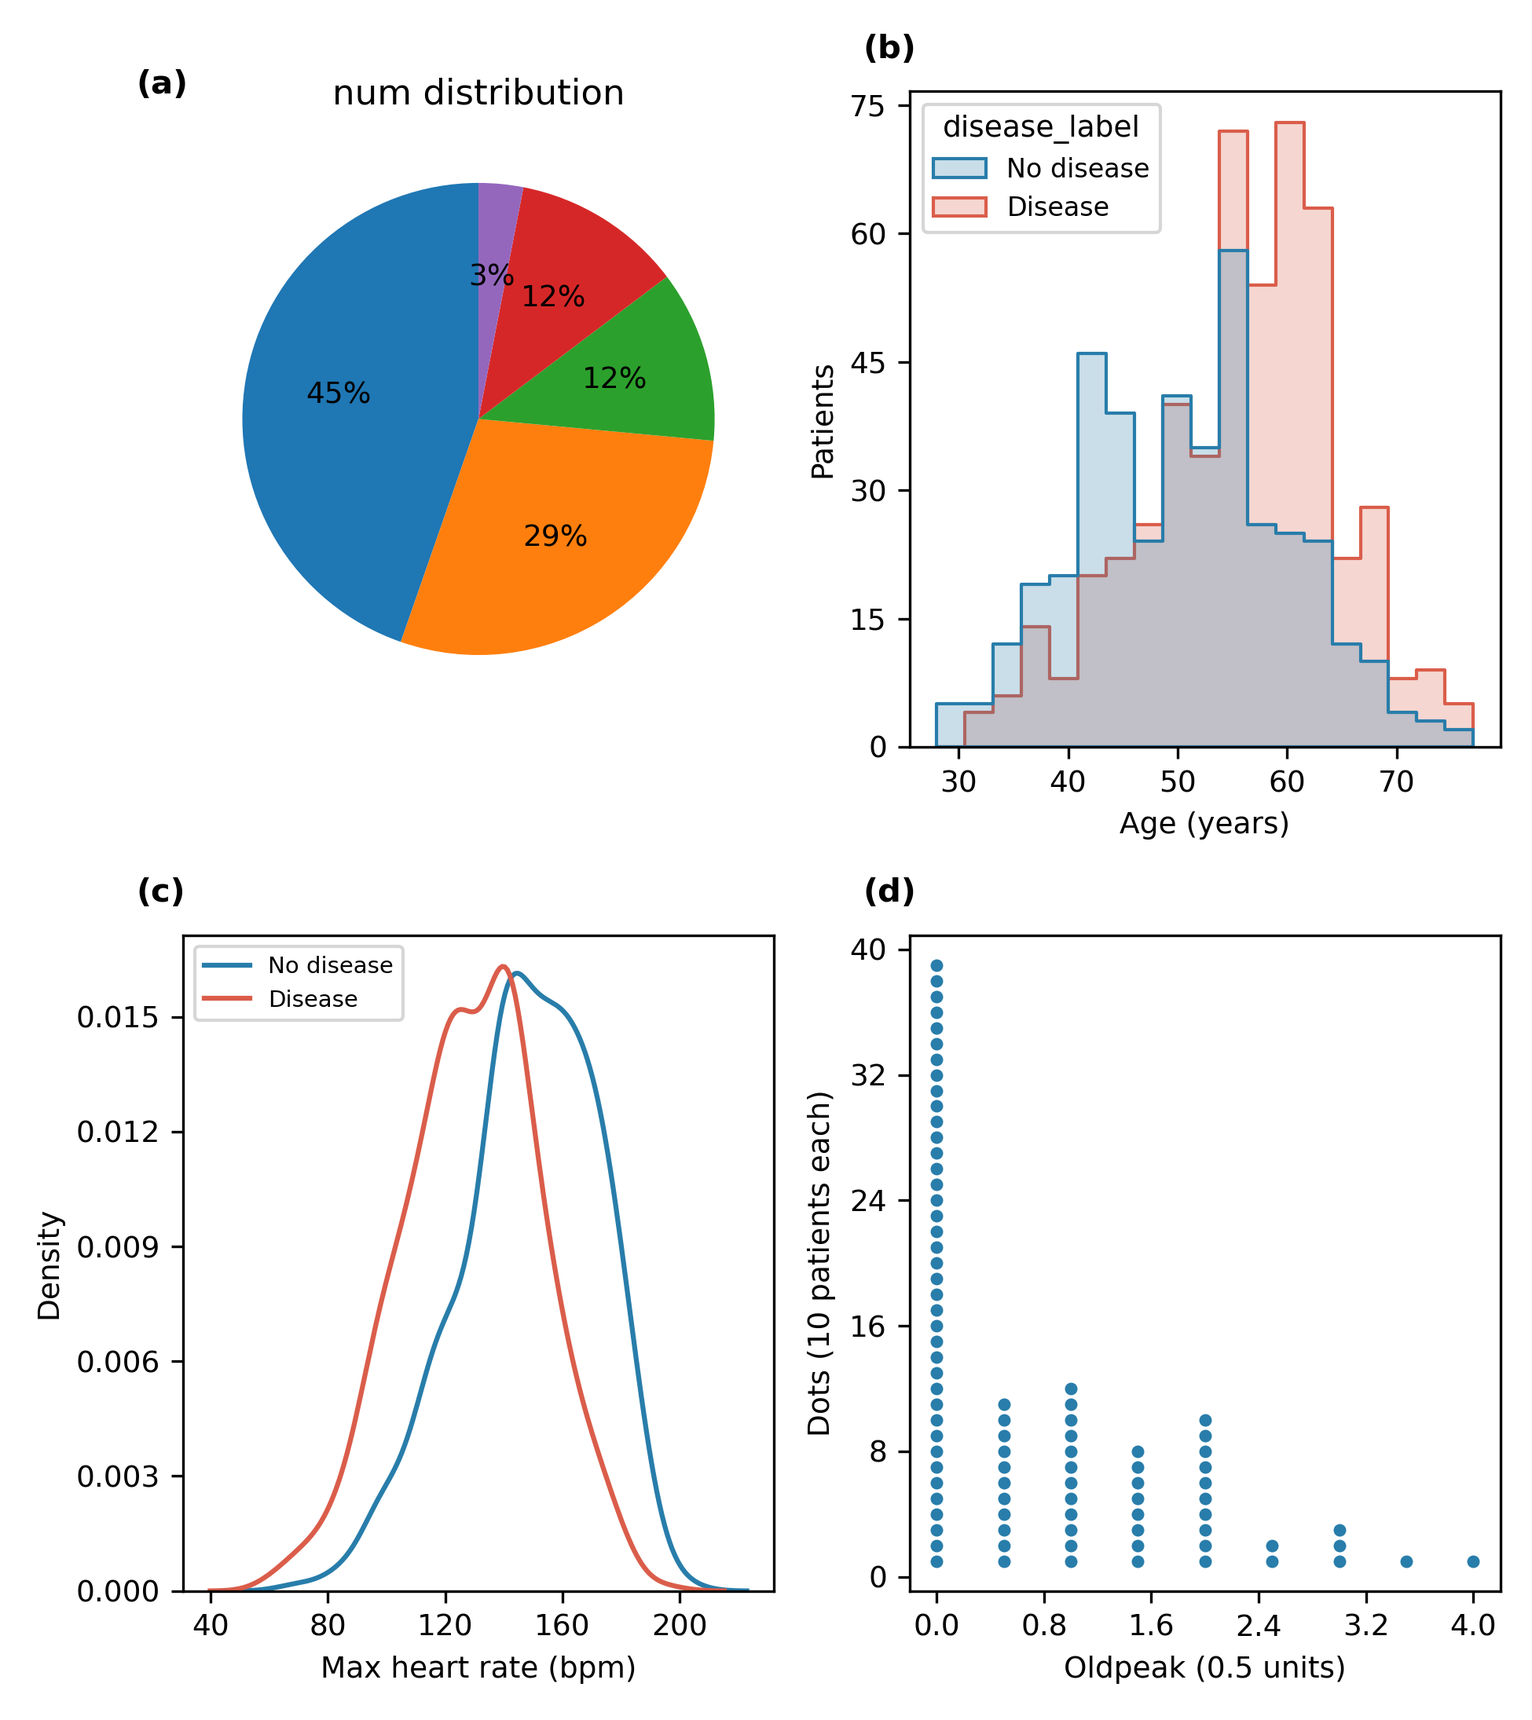
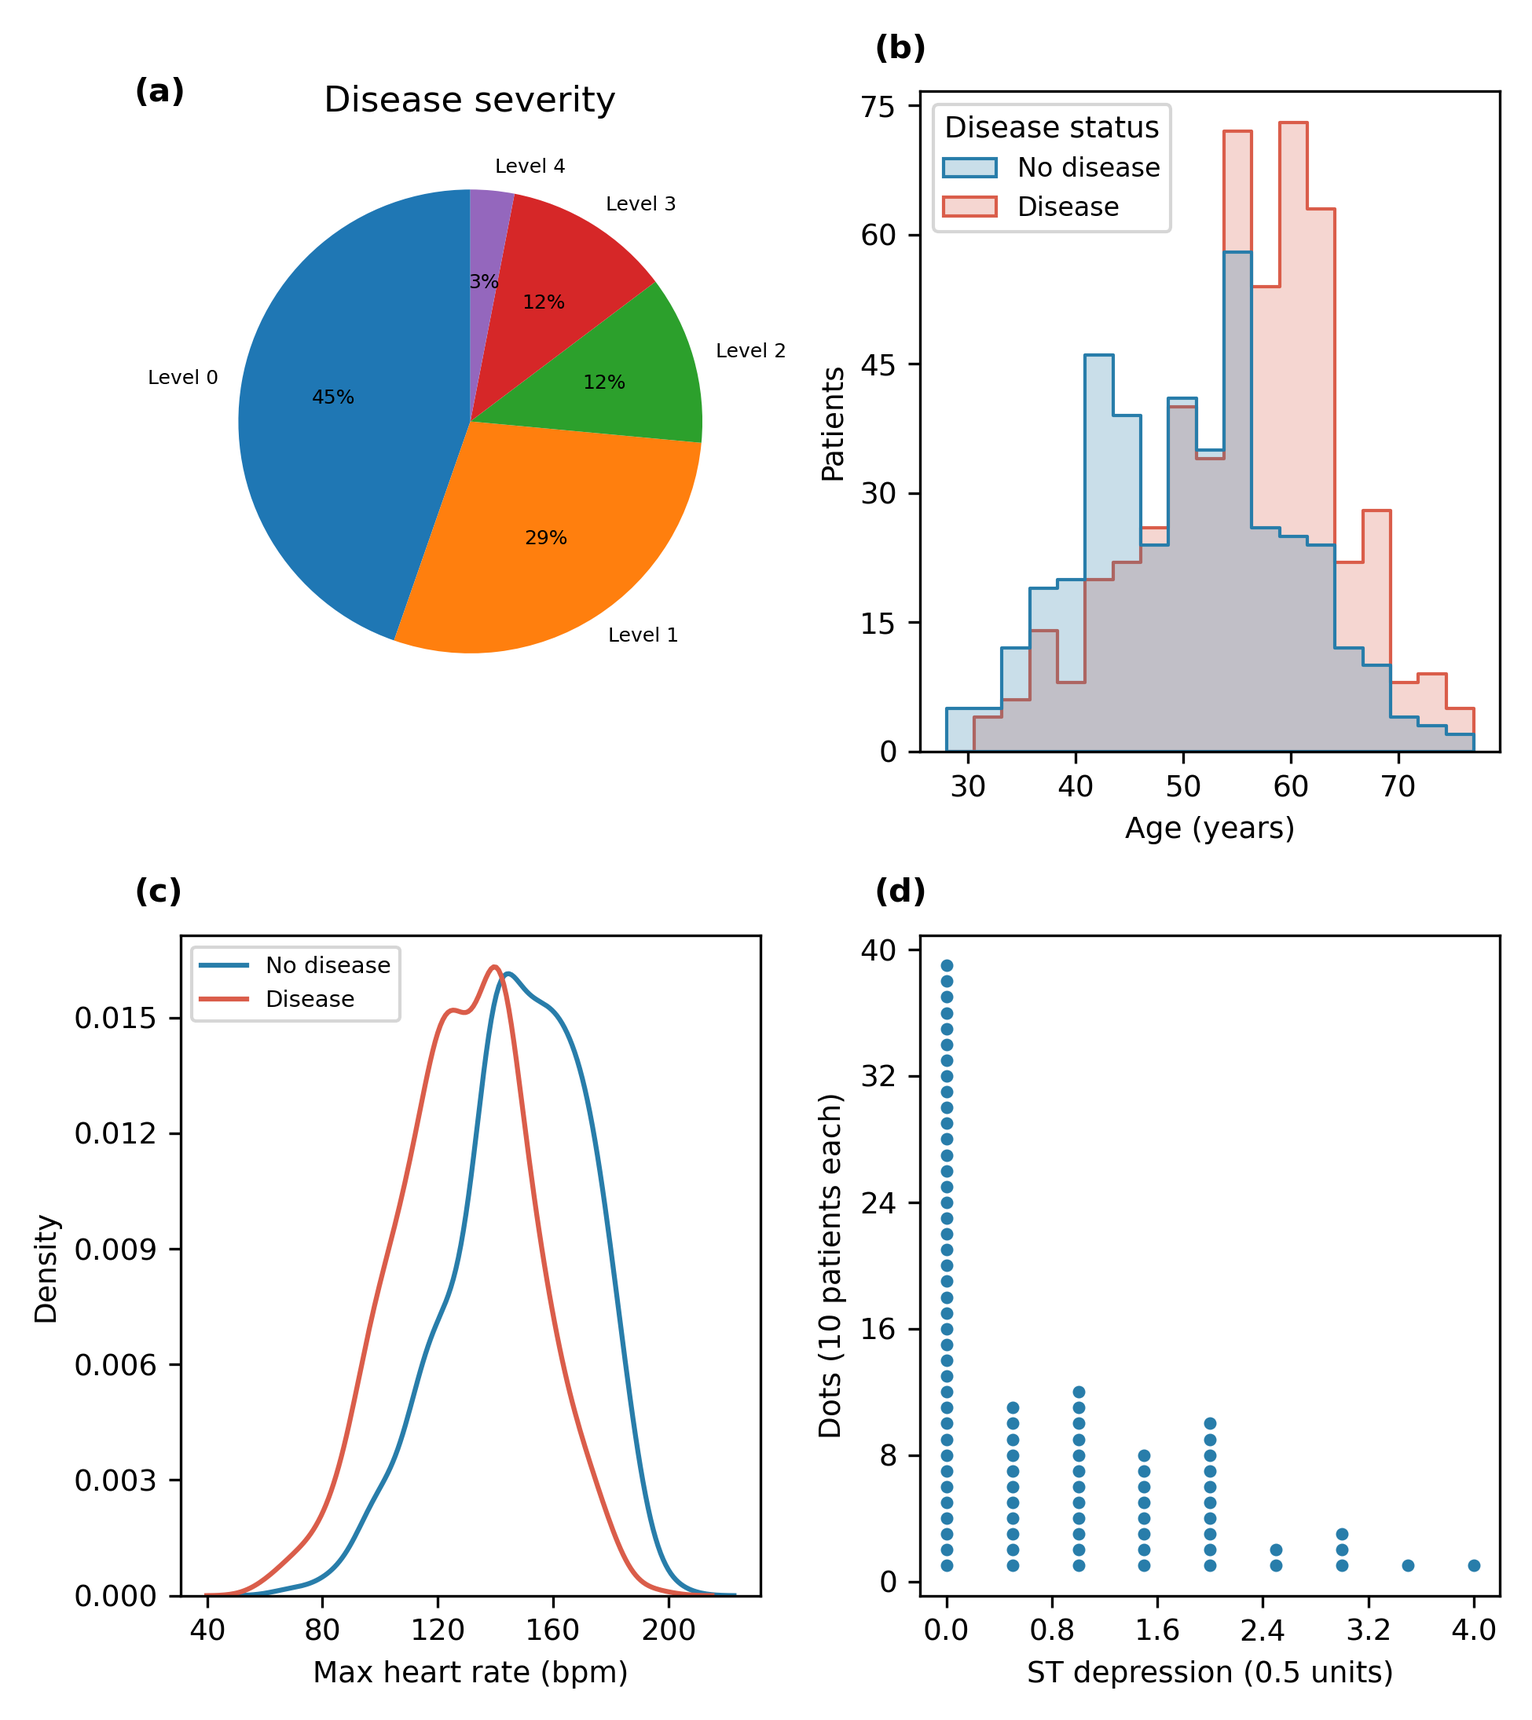
chore: updated surgical fixes for figures

diff --git a/src/03_plots.py b/src/03_plots.py
@@ -327,13 +327,12 @@ def kernel_density(values, points, bandwidth):
 
 def draw_violin(rows, stats):
     """Render KDE violins of thalach by cp; rows supply data and stats records group medians."""
-    image = chart("thalach violin by cp", "chest pain code", "maximum heart rate")
+    image = chart("thalach violin by cp", "", "maximum heart rate")
     box = (150, 170, 1320, 780)
     category_labels = ["1 typical", "2 atypical", "3 non-anginal", "4 asymptomatic"]
-    center_fraction = 140 / (box[2] - box[0])
-    span_fraction = (box[2] - box[0] - 280) / (box[2] - box[0])
-    axes(image, box, [(center_fraction + i * span_fraction / 3, category_labels[i]) for i in range(4)],
-         [(i / 5, 60 + i * 32) for i in range(6)])
+    panel_width = (box[2] - box[0]) / 4
+    x_ticks = [((i + 0.5) / 4, category_labels[i]) for i in range(4)]
+    axes(image, box, x_ticks, [(i / 5, 60 + i * 32) for i in range(6)])
     points = [float(v) for v in range(60, 221, 2)]
     group_medians = []
     for cp in range(1, 5):
@@ -341,13 +340,16 @@ def draw_violin(rows, stats):
         bandwidth = max(2.0, 1.06 * statistics.pstdev(vals) * len(vals) ** (-.2))
         density = kernel_density(vals, points, bandwidth)
         max_density = max(density)
-        center = int(scale(cp - 1, 0, 3, box[0] + 140, box[2] - 140))
+        center = int(box[0] + (cp - 1 + 0.5) * panel_width)
         for index, point in enumerate(points):
             half_width = max(1, int(65 * density[index] / max_density))
             yy = int(scale(point, 60, 220, box[3], box[1]))
             image.line(center - half_width, yy, center + half_width, yy, PALETTE[(cp - 1) % len(PALETTE)])
         group_medians.append(statistics.median(vals))
     stats.append(("p07", "thalach_median_by_cp_1_to_4", ", ".join(f"{value:g}" for value in group_medians)))
+    xlabel = "CHEST PAIN CODE"
+    box_center = (box[0] + box[2]) // 2
+    image.text(box_center - len(xlabel) * 6, image.height - 68, xlabel, color=INK, scale=2)
     save(image, "p07_thalach_violin_by_cp.png")
 
 
@@ -357,7 +359,7 @@ def draw_heatmap(rows, stats, observed_n):
     data = {column: [int(row[column]) if column == "num_bin" else float(row[column]) for row in rows]
             for column in columns}
     matrix = [[spearman(data[a], data[b]) for b in columns] for a in columns]
-    image = chart(f"Spearman heatmap - observed rows only, n={observed_n}", "numeric feature", "numeric feature", 2100, 1800)
+    image = chart(f"Spearman heatmap - observed rows only, n={observed_n}", "", "numeric feature", 2100, 1800)
     left, top, cell = 500, 350, 220
     for index, column in enumerate(columns):
         image.text(left + index * cell + 18, top - 45, column.upper(), color=INK, scale=2)
@@ -372,6 +374,8 @@ def draw_heatmap(rows, stats, observed_n):
             image.text(x0 + 25, y0 + 52, f"{rho:.2f}", color=INK, scale=2)
     pairs = [("age", "num_bin"), ("trestbps", "num_bin"), ("chol", "num_bin"), ("thalach", "num_bin"), ("oldpeak", "num_bin")]
     stats.append(("p08", "spearman_with_num_bin", ", ".join(f"{a}:{spearman(data[a], data[b]):.4f}" for a, b in pairs)))
+    xlabel = "NUMERIC FEATURE"
+    image.text(image.width // 2 - len(xlabel) * 6, image.height - 68, xlabel, color=INK, scale=2)
     save(image, "p08_spearman_heatmap.png")
 
 
@@ -508,7 +512,7 @@ def draw_parallel(rows, flags, stats):
     """Render 200 sampled min-max parallel profiles; rows are observed-chol cases, flags select completeness."""
     sample = random.Random(SEED).sample(rows, min(200, len(rows)))
     image = chart(f"parallel coordinates - observed rows only, n={len(rows)}; sample={len(sample)}",
-                  "numeric feature", "min-max scaled value", 1700, 1000)
+                  "", "min-max scaled value", 1700, 1000)
     box = (150, 190, 1510, 780)
     axes(image, box, [(i / (len(NUMERIC) - 1), NUMERIC[i]) for i in range(len(NUMERIC))],
          [(i / 5, f"{i/5:.1f}") for i in range(6)])
@@ -528,6 +532,8 @@ def draw_parallel(rows, flags, stats):
     legend(image, [("num_bin=0", BLUE), ("num_bin=1", RED)], 1300, 820)
     labels = [int(row["num_bin"]) for row in sample]
     stats.append(("p13", "sample200_class_counts_scaled_min_max", f"{len(sample)}, {labels.count(0)}, {labels.count(1)}, 0, 1"))
+    xlabel = "NUMERIC FEATURE"
+    image.text(image.width // 2 - len(xlabel) * 6, image.height - 68, xlabel, color=INK, scale=2)
     save(image, "p13_parallel_coordinates.png")
 
 
@@ -601,9 +607,9 @@ def build_matplotlib_figures():
     # p01 pie: multiclass target with count and percentage labels.
     counts = d["num"].value_counts().sort_index()
     fig, ax = plt.subplots(figsize=(6.5, 4.5))
-    labels = [f"num={level} (n={count})" for level, count in counts.items()]
+    labels = [f"Level {level} (n={count})" for level, count in counts.items()]
     ax.pie(counts.values, labels=labels, autopct="%1.1f%%", startangle=90, textprops={"fontsize": 9})
-    ax.set_title("Disease severity distribution (num 0-4)")
+    ax.set_title("Disease severity distribution (levels 0-4)")
     save_matplotlib(fig, "p01_num_pie.png")
     stats.append(("p01", "num_counts", ", ".join(str(int(v)) for v in counts.values)))
 
@@ -611,6 +617,7 @@ def build_matplotlib_figures():
     fig, ax = plt.subplots(figsize=(6.5, 4.5))
     sns.histplot(data=d, x="age", hue="disease_label", hue_order=["No disease", "Disease"],
                  palette=palette, bins=18, element="step", stat="count", common_norm=False, ax=ax)
+    ax.get_legend().set_title("Disease status")
     ax.set(xlabel=short["age"], ylabel="Patients"); ax.set_title("Age by disease target")
     plot_style_axis(ax); save_matplotlib(fig, "p02_age_histogram.png")
     stats.append(("p02", "age_medians_by_disease", str(d.groupby("disease_label").age.median().to_dict())))
@@ -626,7 +633,7 @@ def build_matplotlib_figures():
         ax.annotate(f"n={int(count)}", (value, dots + .3), ha="center", fontsize=7)
     ax.scatter(xs, ys, s=20, color="#287DAA", alpha=.85)
     ax.set(xlabel="ST depression (rounded to 0.5)", ylabel="Dots (10 patients each)")
-    ax.set_title("Oldpeak dot plot"); plot_style_axis(ax); save_matplotlib(fig, "p03_oldpeak_dotplot.png")
+    ax.set_title("ST depression dot plot"); plot_style_axis(ax); save_matplotlib(fig, "p03_oldpeak_dotplot.png")
     stats.append(("p03", "oldpeak_counts_rounded_0.5", str({float(k): int(v) for k, v in dot_counts.items()})))
 
     # p04 stem-and-leaf image, fixed random sample of 80.
@@ -641,6 +648,7 @@ def build_matplotlib_figures():
     fig, ax = plt.subplots(figsize=(6.5, 4.5))
     sns.scatterplot(data=d, x="age", y="thalach", hue="disease_label", hue_order=["No disease", "Disease"],
                     palette=palette, alpha=.65, s=28, ax=ax)
+    ax.get_legend().set_title("Disease status")
     ax.set(xlabel=short["age"], ylabel=short["thalach"]); ax.set_title("Age vs. maximum heart rate")
     plot_style_axis(ax); save_matplotlib(fig, "p05_age_thalach_scatter.png")
 
@@ -691,12 +699,15 @@ def build_matplotlib_figures():
     fig, ax = plt.subplots(figsize=(6.5, 4.5))
     sns.countplot(data=d, x="source_label", hue="disease_label", hue_order=["No disease", "Disease"],
                   palette=palette, ax=ax)
+    ax.get_legend().set_title("Disease status")
     ax.set(xlabel="Data source", ylabel="Patients"); ax.set_title("Disease target counts by source")
     ax.tick_params(axis="x", rotation=15); plot_style_axis(ax, numeric_x=False)
     save_matplotlib(fig, "p10_num_bin_by_source.png")
 
     # p11 pair plot with visible class legend.
-    pair = sns.pairplot(d[PAIR_FEATURES + ["disease_label"]], hue="disease_label", hue_order=["No disease", "Disease"],
+    pair_data = d[PAIR_FEATURES + ["disease_label"]].rename(columns={"age":"Age (years)", "thalach":"Max heart rate (bpm)",
+        "oldpeak":"ST depression", "trestbps":"Resting blood pressure (mmHg)"})
+    pair = sns.pairplot(pair_data, hue="disease_label", hue_order=["No disease", "Disease"],
                         palette=palette, corner=True, diag_kind="kde", plot_kws={"s": 16, "alpha": .55}, height=1.65)
     pair.fig.suptitle("Pair plot by disease status", y=1.02)
     pair._legend.set_title("Disease status")
@@ -710,6 +721,7 @@ def build_matplotlib_figures():
     for ax, column in zip(axes_array, ["thalach", "age"]):
         sns.kdeplot(data=d, x=column, hue="disease_label", hue_order=["No disease", "Disease"],
                     palette=palette, fill=False, common_norm=False, ax=ax)
+        ax.get_legend().set_title("Disease status")
         ax.set(xlabel=short[column], ylabel="Density", title=short[column]); plot_style_axis(ax)
     fig.suptitle("KDE by disease status"); save_matplotlib(fig, "p12_kde_age_thalach.png")
 
@@ -731,8 +743,14 @@ def build_matplotlib_figures():
     fields = [column for column in raw.columns if column != "source"]
     missing = raw.groupby("source")[fields].apply(lambda group: group.isna().mean().mul(100)).reset_index().melt("source", var_name="feature", value_name="missing_percent")
     missing["source_label"] = missing.source.map(source_names)
+    feature_names = {"age":"Age", "sex":"Sex", "cp":"Chest-pain category", "trestbps":"Resting blood pressure",
+                     "chol":"Cholesterol", "fbs":"Fasting blood sugar", "restecg":"Resting ECG",
+                     "thalach":"Max heart rate", "exang":"Exercise-induced angina", "oldpeak":"ST depression",
+                     "slope":"ST slope", "ca":"Coronary vessel count", "thal":"Thal test", "num":"Disease severity"}
+    missing["feature"] = missing.feature.map(feature_names)
     fig, ax = plt.subplots(figsize=(9, 5))
     sns.barplot(data=missing, x="feature", y="missing_percent", hue="source_label", ax=ax)
+    ax.get_legend().set_title("Cohort")
     ax.set(xlabel="Feature", ylabel="Missing values (%)", title="Missingness by source")
     ax.tick_params(axis="x", rotation=45); plot_style_axis(ax, numeric_x=False); save_matplotlib(fig, "missingness_bar.png")
 
@@ -750,12 +768,12 @@ def build_matplotlib_figures():
 
     # Composite fig_A: pie, histogram, KDE, and dot plot.
     fig, axs = plt.subplots(2, 2, figsize=(6.5, 7.3))
-    ax=axs[0,0]; ax.pie(counts.values, autopct="%1.0f%%", startangle=90); ax.set_title("num distribution")
-    ax=axs[0,1]; sns.histplot(data=d,x="age",hue="disease_label",hue_order=["No disease","Disease"],palette=palette,element="step",ax=ax); ax.set(xlabel="Age (years)",ylabel="Patients")
+    ax=axs[0,0]; ax.pie(counts.values, labels=[f"Level {level}" for level in counts.index], autopct="%1.0f%%", startangle=90, textprops={"fontsize":6}); ax.set_title("Disease severity")
+    ax=axs[0,1]; sns.histplot(data=d,x="age",hue="disease_label",hue_order=["No disease","Disease"],palette=palette,element="step",ax=ax); ax.set(xlabel="Age (years)",ylabel="Patients"); ax.get_legend().set_title("Disease status")
     ax=axs[1,0]
     for label,color in palette.items(): sns.kdeplot(data=d[d.disease_label.eq(label)],x="thalach",color=color,label=label,ax=ax)
     ax.set(xlabel=short["thalach"],ylabel="Density"); ax.legend(fontsize=7)
-    ax=axs[1,1]; ax.scatter(xs,ys,s=8,color="#287DAA"); ax.set(xlabel="Oldpeak (0.5 units)",ylabel="Dots (10 patients each)")
+    ax=axs[1,1]; ax.scatter(xs,ys,s=8,color="#287DAA"); ax.set(xlabel="ST depression (0.5 units)",ylabel="Dots (10 patients each)")
     for ax,label in zip(axs.flat,"abcd"):
         label_panel(ax,label)
         if ax is not axs[0,0]: plot_style_axis(ax,numeric_x=True,numeric_y=True)
@@ -792,11 +810,12 @@ def build_matplotlib_figures():
 
     # Composite fig_D: source counts and missingness panels.
     fig, axs = plt.subplots(2,2,figsize=(6.5,7.3))
-    sns.countplot(data=d,x="source_label",hue="disease_label",hue_order=["No disease","Disease"],palette=palette,ax=axs[0,0]); axs[0,0].set(xlabel="Source",ylabel="Patients",title="Counts by source"); axs[0,0].tick_params(axis="x",rotation=25)
+    sns.countplot(data=d,x="source_label",hue="disease_label",hue_order=["No disease","Disease"],palette=palette,ax=axs[0,0]); axs[0,0].set(xlabel="Source",ylabel="Patients",title="Counts by source"); axs[0,0].tick_params(axis="x",rotation=25); axs[0,0].get_legend().set_title("Disease status")
     sns.barplot(data=missing,x="feature",y="missing_percent",hue="source_label",ax=axs[0,1],legend=False); axs[0,1].set(xlabel="Feature",ylabel="Missing (%)",title="Missingness by source"); axs[0,1].tick_params(axis="x",rotation=75,labelsize=9)
     by_source = d.groupby(["source_label","disease_label"]).size().unstack(fill_value=0).reindex(columns=["No disease","Disease"])
-    by_source.plot(kind="bar",stacked=True,color=[palette["No disease"],palette["Disease"]],ax=axs[1,0]); axs[1,0].set(xlabel="Source",ylabel="Patients",title="Stacked disease counts"); axs[1,0].tick_params(axis="x",rotation=25)
+    by_source.plot(kind="bar",stacked=True,color=[palette["No disease"],palette["Disease"]],ax=axs[1,0]); axs[1,0].set(xlabel="Source",ylabel="Patients",title="Stacked disease counts"); axs[1,0].tick_params(axis="x",rotation=25); axs[1,0].legend(title="Disease status")
     overall_missing=raw[fields].isna().mean().mul(100).sort_values(ascending=False)
+    overall_missing.index = [feature_names.get(value, value) for value in overall_missing.index]
     sns.barplot(x=overall_missing.index,y=overall_missing.values,color="#59A6C5",ax=axs[1,1]); axs[1,1].set(xlabel="Feature",ylabel="Missing (%)",title="Overall missingness"); axs[1,1].tick_params(axis="x",rotation=75,labelsize=9)
     for ax,label in zip(axs.flat,"abcd"): label_panel(ax,label); plot_style_axis(ax,numeric_x=False)
     fig.tight_layout(); save_matplotlib(fig,"fig_D_source_missingness.png")
@@ -806,9 +825,21 @@ def build_matplotlib_figures():
     print(f"Matplotlib/Seaborn figures written: 13 individual plots + 4 composites + missingness + before/after; dpi=300; font=DejaVu Sans")
 
 
+def build_scratch_p07_p08_p13():
+    """Build raster p07, p08, and p13 figures."""
+    rows = load_rows(DATA / "clean.csv")
+    flags = load_rows(DATA / "imputed_flags.csv")
+    stats = []
+    draw_violin(rows, stats)
+    observed_chol = [row for row, flag in zip(rows, flags) if flag["chol_imputed"] == "False"]
+    draw_heatmap(observed_chol, stats, len(observed_chol))
+    draw_parallel(observed_chol, flags, stats)
+
+
 def main():
     """Run Matplotlib/Seaborn figure generation; project root and artifact paths define inputs."""
     build_matplotlib_figures()
+    build_scratch_p07_p08_p13()
 
 
 if __name__ == "__main__":

diff --git a/src/05_models.py b/src/05_models.py
@@ -81,7 +81,7 @@ def main():
     plt.figure(); plt.plot(ks, cv_scores, marker="o"); plt.xlabel("k"); plt.ylabel("5-fold CV accuracy"); plt.title("KNN cross-validation accuracy"); plt.tight_layout(); plt.savefig(out / "figs/knn_cv.png", dpi=300); plt.close()
     primary, cm, yt, probs = save_metrics(KNeighborsClassifier(n_neighbors=best_k), xtr, xte, ytr, yte, "selected")
     primary["best_k"] = best_k
-    plt.figure(); ConfusionMatrixDisplay(cm).plot(cmap="Blues", values_format="d"); plt.title("KNN confusion matrix"); plt.tight_layout(); plt.savefig(out / "figs/knn_confusion.png", dpi=300); plt.close()
+    plt.figure(); ConfusionMatrixDisplay(cm, display_labels=["No disease", "Disease"]).plot(cmap="Blues", values_format="d"); plt.title("KNN confusion matrix"); plt.tight_layout(); plt.savefig(out / "figs/knn_confusion.png", dpi=300); plt.close()
     fpr, tpr, _ = roc_curve(yt, probs); plt.figure(); plt.plot(fpr, tpr); plt.plot([0, 1], [0, 1], "--"); plt.xlabel("False positive rate"); plt.ylabel("True positive rate"); plt.title("KNN ROC curve"); plt.tight_layout(); plt.savefig(out / "figs/knn_roc.png", dpi=300); plt.close()
     full = pd.read_csv(ROOT / "data/model_matrix.csv"); xf = full.drop(columns="y").to_numpy(float); yf = full.y.to_numpy(int)
     ftr, fte, fytr, fyte = train_test_split(xf, yf, test_size=.2, stratify=yf, random_state=SEED)
@@ -123,7 +123,15 @@ def main():
     tree_rules_path.write_text(tree_rules + "\n", encoding="utf-8")
     tree_accuracy = accuracy_score(yte, tree.predict(xte))
     print("EXTRA tree_test_accuracy", tree_accuracy)
-    fig, ax = plt.subplots(figsize=(18, 9)); plot_tree(tree, feature_names=list(selected.drop(columns="y").columns), class_names=["no", "yes"], filled=True, rounded=True, ax=ax)
+    tree_name_map = {"X_age": "Age (years)", "X_thalach": "Max heart rate (bpm)", "X_oldpeak": "ST depression",
+                     "X_sex__0": "Sex: female", "X_sex__1": "Sex: male", "X_cp__1": "Chest pain: typical",
+                     "X_cp__2": "Chest pain: atypical", "X_cp__3": "Chest pain: non-anginal",
+                     "X_cp__4": "Chest pain: asymptomatic", "X_exang__0": "Exercise angina: no",
+                     "X_exang__1": "Exercise angina: yes", "X_slope__-1": "ST slope: missing",
+                     "X_slope__1": "ST slope: upsloping", "X_slope__2": "ST slope: flat",
+                     "X_slope__3": "ST slope: downsloping"}
+    figure_names = [tree_name_map.get(name, name) for name in selected.drop(columns="y").columns]
+    fig, ax = plt.subplots(figsize=(18, 9)); plot_tree(tree, feature_names=figure_names, class_names=["No disease", "Disease"], filled=True, rounded=True, ax=ax)
     ax.set_title("Decision tree, max depth 3"); fig.tight_layout(); fig.savefig(out / "figs/tree.png", dpi=300); plt.close(fig)
     inertias=[]; silhouettes=[]
     for k in range(2, 9):

diff --git a/src/08_bench.py b/src/08_bench.py
@@ -196,7 +196,10 @@ def main():
     (ROOT/"out/tables").mkdir(parents=True,exist_ok=True); (ROOT/"out/figs").mkdir(parents=True,exist_ok=True)
     frame.to_csv(ROOT/"out/tables/bench.csv",index=False)
     fig,ax=plt.subplots();
-    for (task,engine),part in frame.groupby(["task","engine"]): ax.loglog(part.N,part.mean_s,marker="o",label=f"{task}/{engine}")
+    engine_labels={"sklearn":"scikit-learn","spark":"Spark","numpy":"NumPy","python_scratch":"Python (scratch)"}
+    for (task,engine),part in frame.groupby(["task","engine"]):
+        task_label="K-means" if task=="kmeans" else task
+        ax.loglog(part.N,part.mean_s,marker="o",label=f"{task_label} / {engine_labels.get(engine,engine)}")
     ax.set(xlabel="N rows",ylabel="Mean fit/count seconds",title="Benchmark runtime"); ax.legend(); fig.tight_layout(); fig.savefig(ROOT/"out/figs/bench.png",dpi=300); plt.close(fig)
     spark.stop(); print(frame[["task","N","engine","mean_s","speedup","speedup_vs_numpy","speedup_vs_spark","speedup_vs_sklearn","status","sanity_mean"]].to_string(index=False))
 
